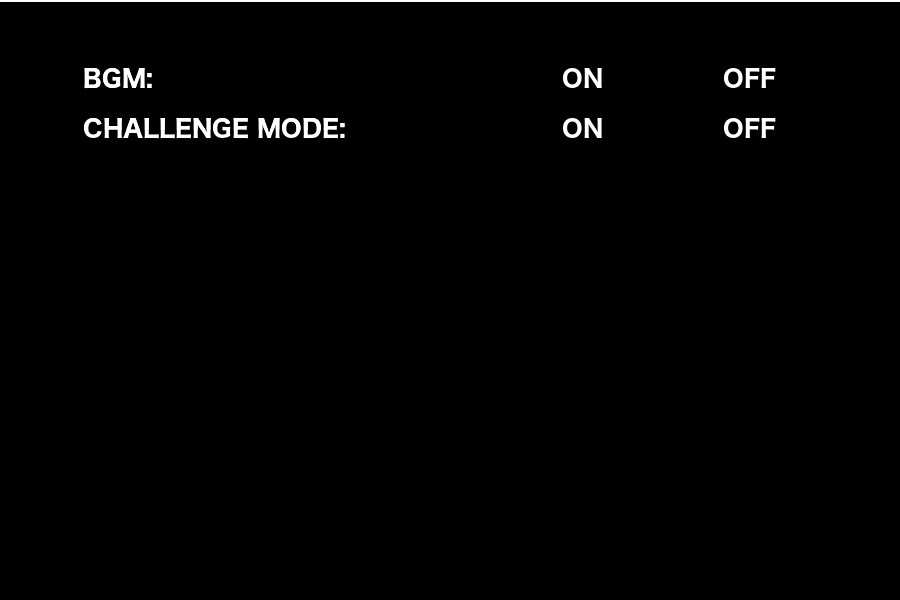
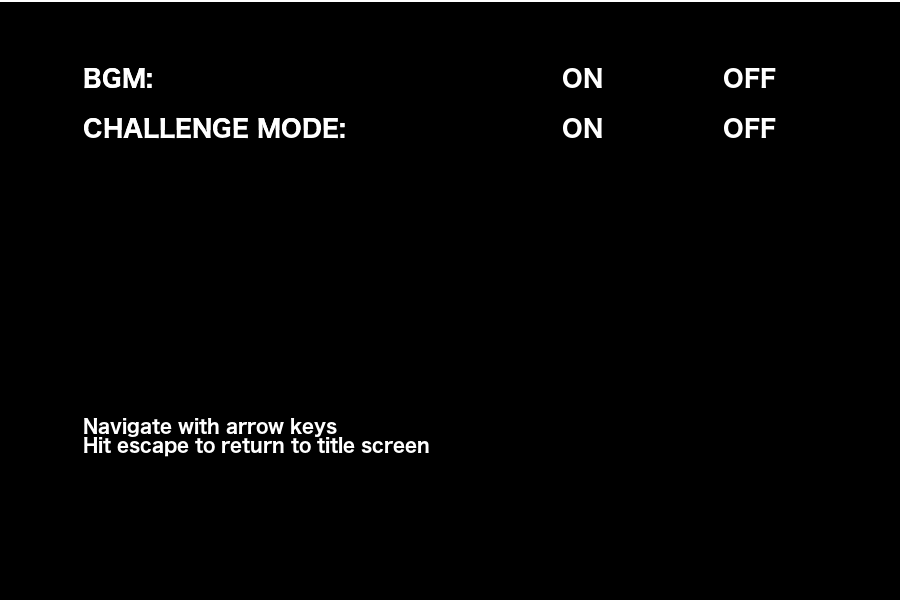
Improve nagivation in config scene

Changed region(s): [[0.0933, 0.69, 0.4978, 0.78]]

diff --git a/Nappou-2/src/main/java/org/atoiks/games/nappou2/scenes/ConfigScene.java b/Nappou-2/src/main/java/org/atoiks/games/nappou2/scenes/ConfigScene.java
@@ -31,7 +31,8 @@ import org.atoiks.games.nappou2.GameConfig;
 
 public final class ConfigScene extends Scene {
 
-    private static final int MAX_SELECTOR = 2;
+    private static final int[] SELECTOR_Y = { 66, 115 };
+    private static final int OPT_HEIGHT = 24;
 
     private Image configImg;
     private Clip bgm;
@@ -43,6 +44,8 @@ public final class ConfigScene extends Scene {
     public void render(IGraphics g) {
         g.drawImage(configImg, 0, 0);
         g.setColor(Color.white);
+
+        g.drawRect(74, SELECTOR_Y[selector], 78, SELECTOR_Y[selector] + OPT_HEIGHT);
 
         if (config.bgm) {
             g.drawLine(560, 90, 604, 90);
@@ -72,10 +75,10 @@ public final class ConfigScene extends Scene {
             return true;
         }
         if (scene.keyboard().isKeyPressed(KeyEvent.VK_DOWN)) {
-            if (++selector > MAX_SELECTOR) selector = 0;
+            if (++selector > SELECTOR_Y.length) selector = 0;
         }
         if (scene.keyboard().isKeyPressed(KeyEvent.VK_UP)) {
-            if (--selector < 0) selector = MAX_SELECTOR - 1;
+            if (--selector < 0) selector = SELECTOR_Y.length - 1;
         }
         if (scene.keyboard().isKeyPressed(KeyEvent.VK_RIGHT)) {
             switch (selector) {
